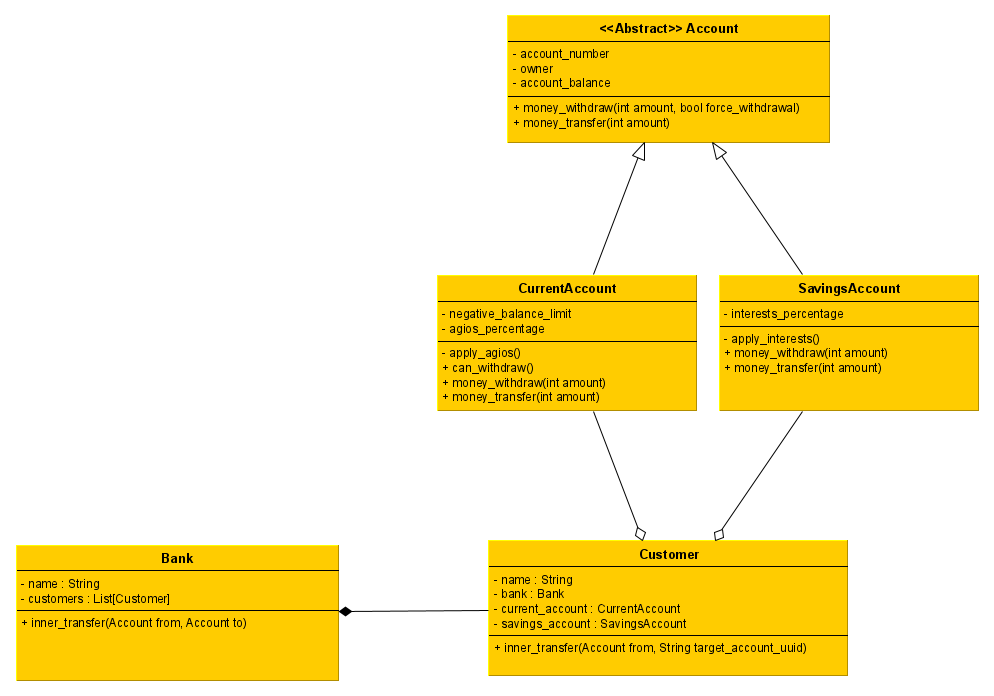
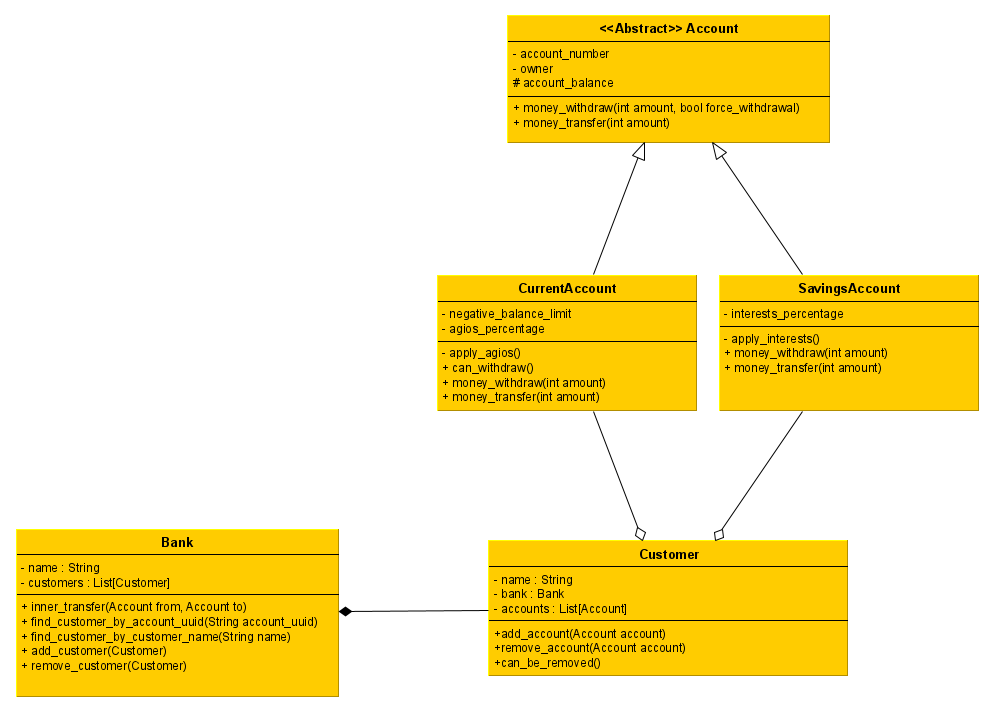
updating diagram

diff --git a/README.md b/README.md
@@ -70,7 +70,7 @@ Maintenant que nous avons des comptes banquaires opérationnels, il est temps de
 Implémentez les classes suivantes. 
 
 ![Diagramme de classe v0.2](./diagramme_classe_v0.2.png)
-Ainsi, l'attribut anciennement nommé owner_name devient owner et devient une référence vers un nouvel objet `Customer` et deux nouvelles classes sont à implémenter `Client` et `Banque`.
+Ainsi, l'attribut anciennement nommé owner_name devient owner et devient une référence vers un nouvel objet `Customer` et deux nouvelles classes sont à implémenter `Customer` et `Bank`.
 
 Pour la réalisation de ces développements, le client demande à ce que les développements soient réalisés par le biais des tests. N'étant pas d'un profil technique, il se repose sur vos préférences quant aux choix entre du BDD ou du TDD. 
 
